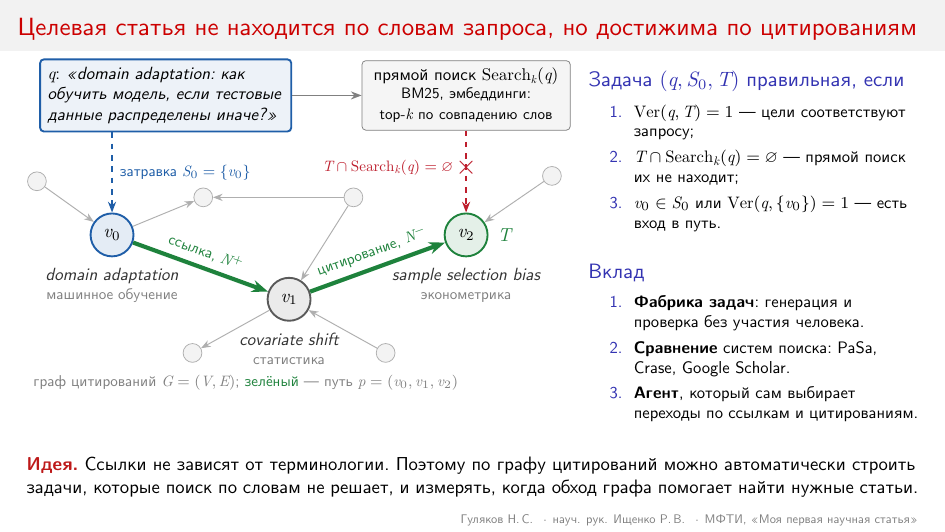
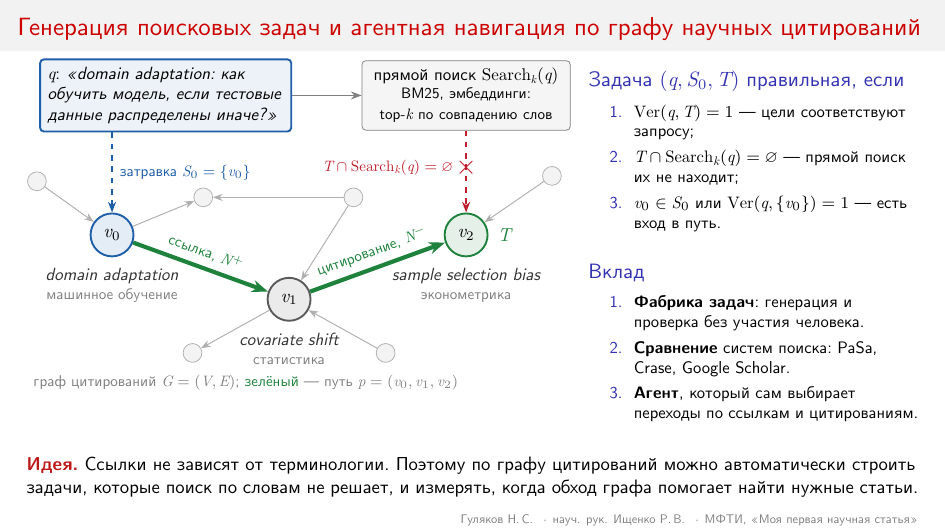
Use project topic as one-slide talk title

Changed region(s): [[0.0307, 0.0301, 0.982, 0.0902]]

diff --git a/slides/one-slide.tex b/slides/one-slide.tex
@@ -43,7 +43,7 @@
 
 \begin{document}
 
-\begin{frame}{Целевая статья не находится по словам запроса, но достижима по цитированиям}
+\begin{frame}{Генерация поисковых задач и агентная навигация по графу научных цитирований}
 \vspace{-3mm}
 \begin{columns}[T,onlytextwidth]
 \begin{column}{0.61\textwidth}

diff --git a/README.md b/README.md
@@ -10,7 +10,7 @@
 
 ## Однослайдовый доклад
 
-[![Однослайдовый доклад: целевая статья не находится по словам запроса, но достижима по цитированиям](slides/one-slide.png)](slides/one-slide.pdf)
+[![Однослайдовый доклад: генерация поисковых задач и агентная навигация по графу научных цитирований](slides/one-slide.png)](slides/one-slide.pdf)
 
 [PDF](slides/one-slide.pdf) · [исходник LaTeX](slides/one-slide.tex)
 
